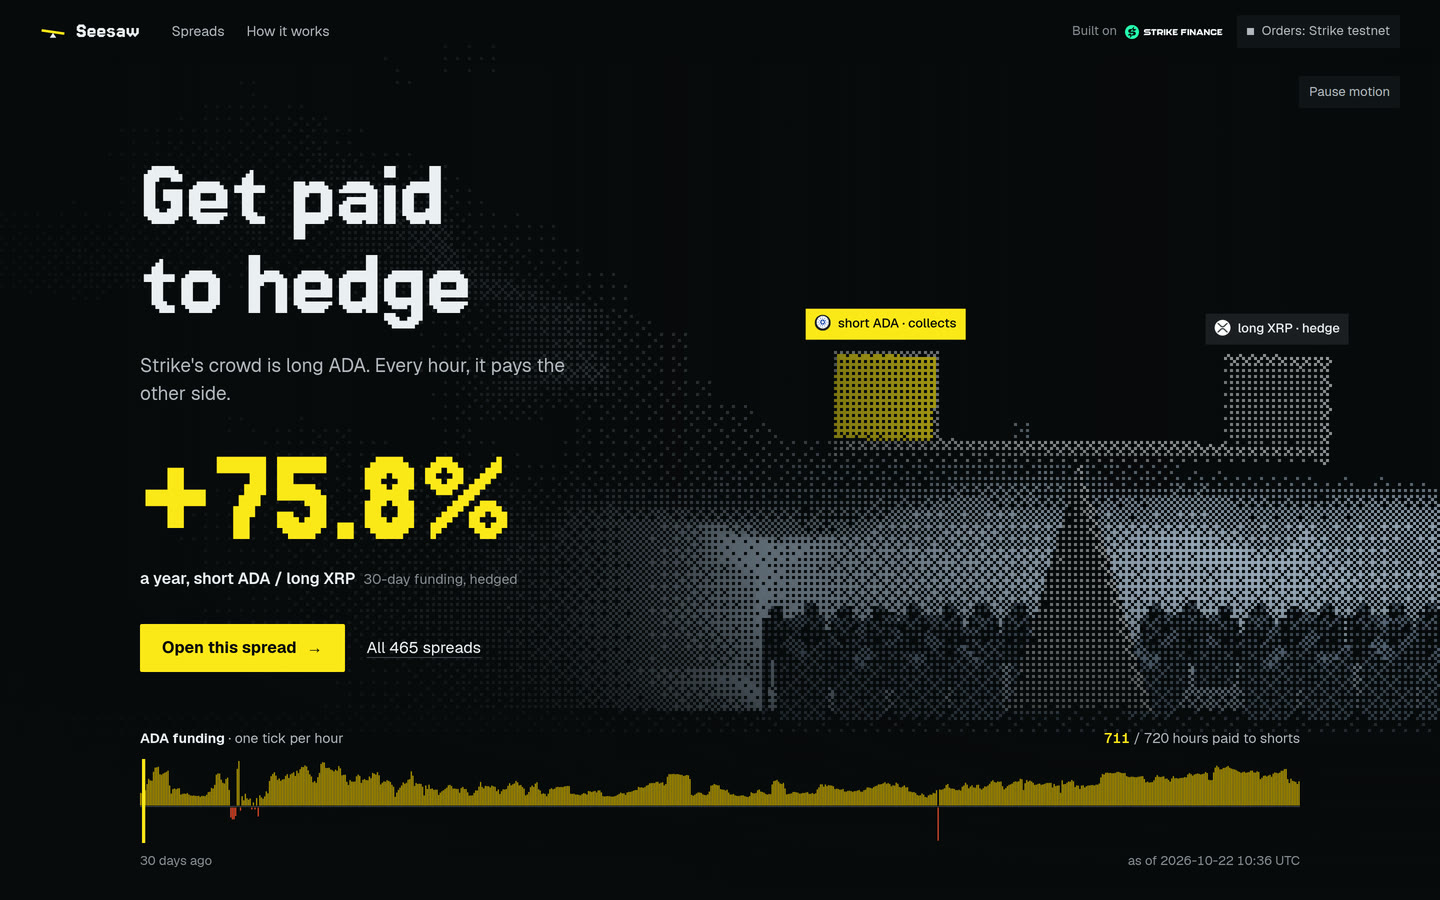
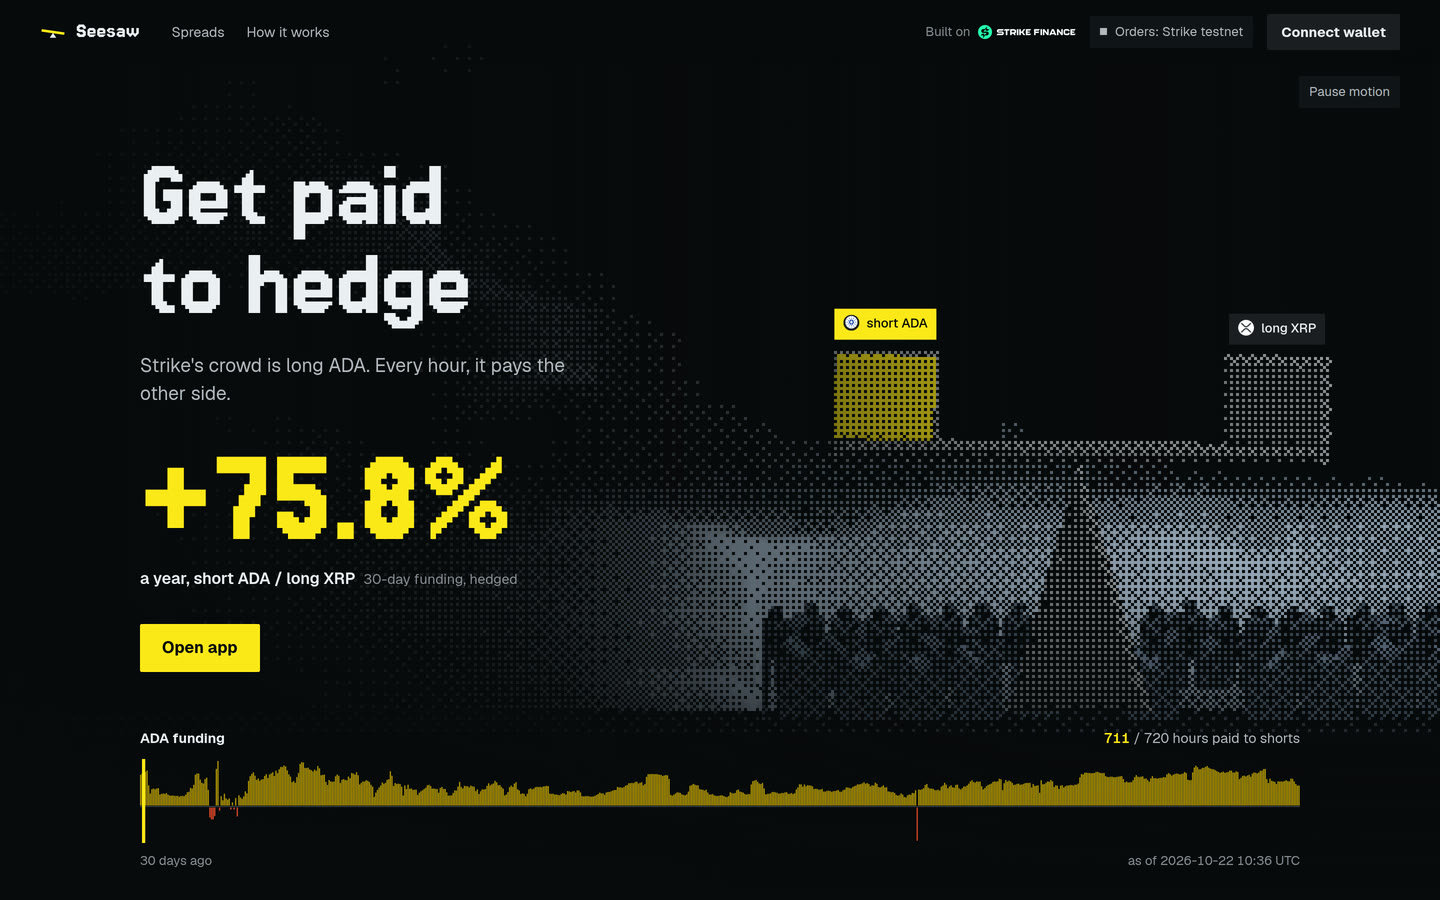
Refresh README screenshots and the connect step

diff --git a/README.md b/README.md
@@ -31,7 +31,7 @@ Orders go to **Strike testnet**. Two wallet routes have been tested end to end:
 | Rabby or MetaMask (EVM) | Sepolia | [Circle faucet](https://faucet.circle.com) for USDC, plus a little Sepolia ETH for gas | USDC |
 
 1. Open the **short BTC / long ETH** spread. Strike testnet's ADA order book is empty, so BTC and ETH are the markets whose testnet books fill near the mark price. The board marks them with a `testnet` tag.
-2. **Connect a wallet** and sign one message. It approves the builder code `Seesaw` and creates a trading key for this browser tab. That key can place orders but cannot withdraw.
+2. **Connect a wallet** with the button in the header (Lace, Rabby, Phantom and other installed wallets are listed) and sign one message. It approves the builder code `Seesaw` and creates a trading key for this browser tab. That key can place orders but cannot withdraw.
 3. **Deposit from the ticket** if the balance is short. The smallest BTC/ETH spread ($105 BTC / $69 ETH) needs about $87 of margin at 2×. 500 test ADA credited $105.69 during testing; the ticket quotes the exact amount before you sign.
 4. **Open the spread.** Both orders go out in one batch request, and each leg reports its own fill.
 5. **Close both legs** from the spread card under "Your spreads".
